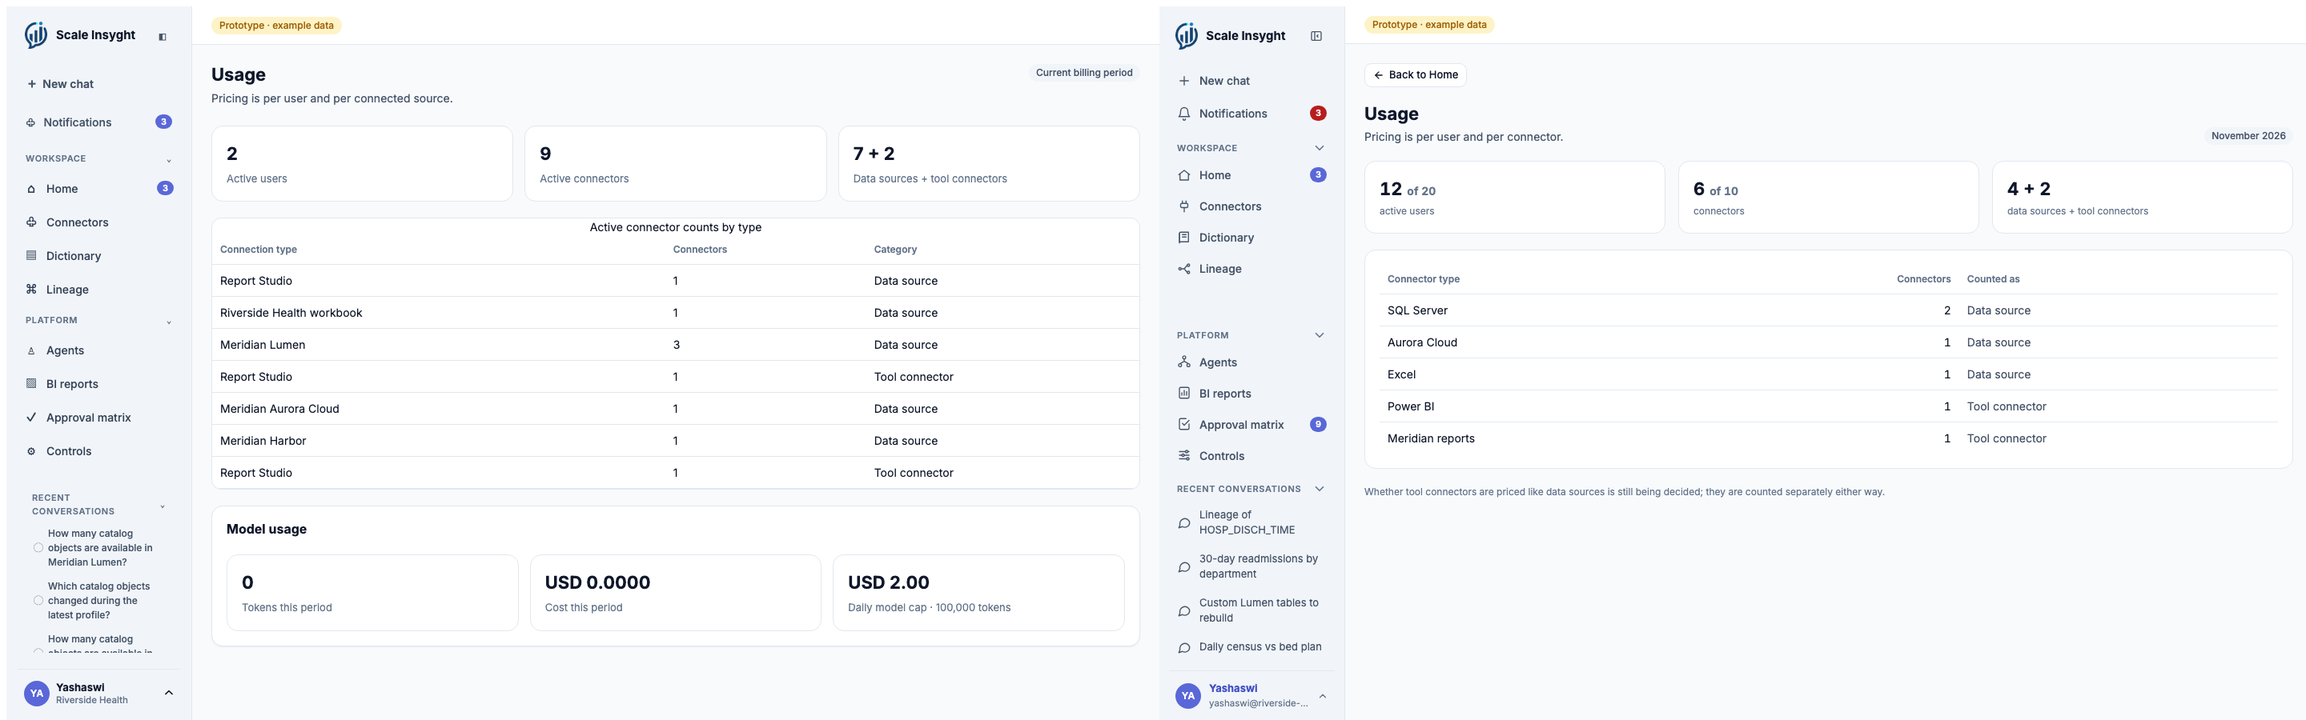
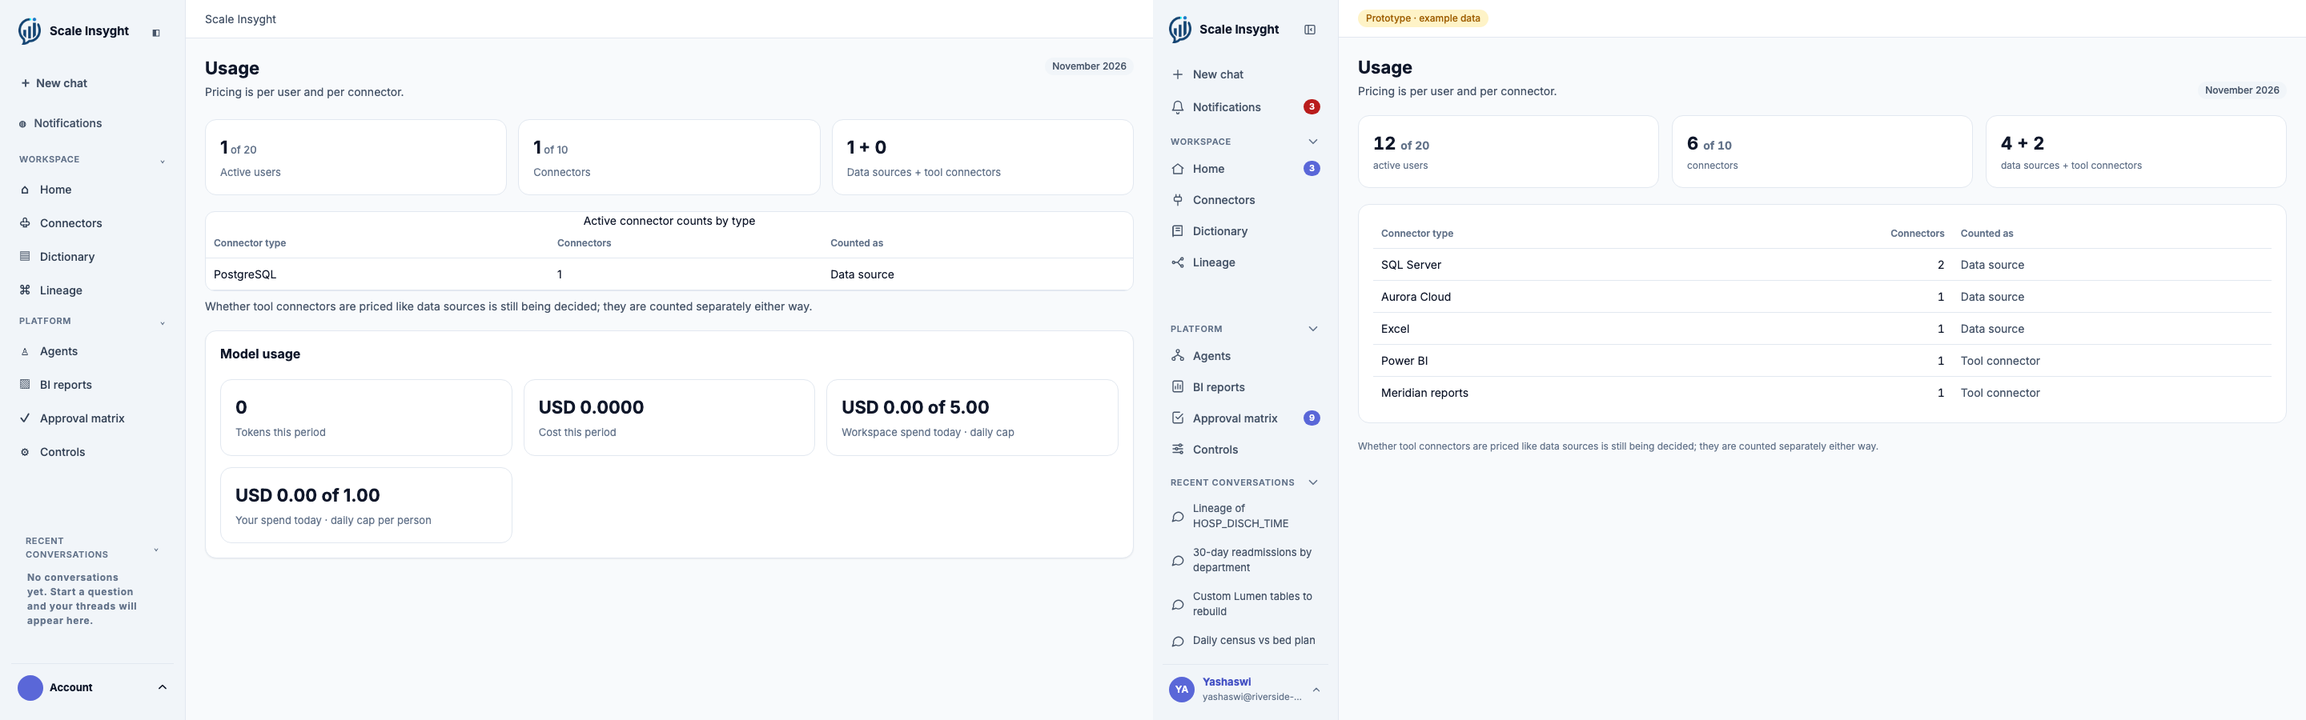
Usage: users and connectors against the plan's allowance, as in the prototype (decision 71)

diff --git a/apps/web/src/main.tsx b/apps/web/src/main.tsx
@@ -29,7 +29,7 @@ import { errorCopy } from './error-copy.js';
 import { groupNotifications, type NotificationGroup, type NotificationItem } from './notifications.js';
 import { profileProgress, profileStatus, type ProfileJob } from './profile-progress.js';
 
-type Usage = { active_users: number; active_connectors: { by_type: Record<string, number> }; model_usage:{input_tokens:number;output_tokens:number;cost_usd:number;daily_cost_cap_usd:number|null;daily_user_cost_cap_usd:number|null;today_cost_usd:number;today_user_cost_usd:number|null} };
+type Usage = { period?: { from: string; to: string }; active_users: number; active_connectors: { by_type: Record<string, number> }; allowance?: { users: number | null; connectors: number }; model_usage:{input_tokens:number;output_tokens:number;cost_usd:number;daily_cost_cap_usd:number|null;daily_user_cost_cap_usd:number|null;today_cost_usd:number;today_user_cost_usd:number|null} };
 type NavGroups = { workspace: boolean; platform: boolean; recent: boolean };
 type Connection = { connectionId: string; connectorType: string; displayName: string; status: string; agentId: string | null; lastJobState: string | null; lastJobAt?: string | null; lastJobFailure?: string | null; lastJobFailed?: number | null; lastJobLimited?: number | null; warehouseName?: string | null; dbtImport?: {importedAt:string;models:number;tests:number} | null; tableauImport?: {importedAt:string;datasources:number;worksheets:number} | null };
 type Notification = NotificationItem;
@@ -596,7 +596,7 @@ function App() {
   const sourceConnectorCount=totalActiveConnectors-toolConnectorCount;
   let page: React.ReactNode;
   if (path.startsWith('/invites')) page = <InvitesPage />;
-  else if (path.startsWith('/usage')) page = <section className="usage-page"><div className="page-heading"><div><h1>Usage</h1><p>Pricing is per user and per connected source.</p></div><Badge tone="muted">Current billing period</Badge></div><div className="usage-summary"><article><strong>{usage?.active_users??0}</strong><span>Active users</span></article><article><strong>{totalActiveConnectors}</strong><span>Active connectors</span></article><article><strong>{sourceConnectorCount} + {toolConnectorCount}</strong><span>Data sources + tool connectors</span></article></div><Table caption="Active connector counts by type" headers={['Connection type','Connectors','Category']} rows={usageTypes.map(([type,count])=>[connectorTypeLabel(type),count,type.includes('tableau')||type.includes('power_bi')?'Tool connector':'Data source'])}/><article className="usage-model"><h2>Model usage</h2><div className="usage-summary"><div><strong>{((usage?.model_usage.input_tokens??0)+(usage?.model_usage.output_tokens??0)).toLocaleString()}</strong><span>Tokens this period</span></div><div><strong>USD {(usage?.model_usage.cost_usd??0).toFixed(4)}</strong><span>Cost this period</span></div><div><strong>USD {(usage?.model_usage.today_cost_usd??0).toFixed(2)} of {(usage?.model_usage.daily_cost_cap_usd??0).toFixed(2)}</strong><span>Workspace spend today · daily cap</span></div><div><strong>USD {(usage?.model_usage.today_user_cost_usd??0).toFixed(2)} of {(usage?.model_usage.daily_user_cost_cap_usd??0).toFixed(2)}</strong><span>Your spend today · daily cap per person</span></div></div></article></section>;
+  else if (path.startsWith('/usage')) page = <section className="usage-page"><div className="page-heading"><div><h1>Usage</h1><p>Pricing is per user and per connector.</p></div><Badge tone="muted">{usage?.period?new Date(usage.period.from).toLocaleDateString('en-GB',{month:'long',year:'numeric',timeZone:'UTC'}):'Current billing period'}</Badge></div><div className="usage-summary"><article><strong>{(usage?.active_users??0).toLocaleString('en-US')}{usage?.allowance?.users!=null&&<span className="usage-of"> of {usage.allowance.users.toLocaleString('en-US')}</span>}</strong><span>{usage?.allowance?.users!=null?'Active users':'Active users · no user allowance in your plan'}</span></article><article><strong>{totalActiveConnectors.toLocaleString('en-US')}{usage?.allowance&&<span className="usage-of"> of {usage.allowance.connectors.toLocaleString('en-US')}</span>}</strong><span>Connectors</span></article><article><strong>{sourceConnectorCount} + {toolConnectorCount}</strong><span>Data sources + tool connectors</span></article></div><Table caption="Active connector counts by type" headers={['Connector type','Connectors','Counted as']} rows={usageTypes.map(([type,count])=>[connectorTypeLabel(type),count,type.includes('tableau')||type.includes('power_bi')?'Tool connector':'Data source'])}/><p className="faint">Whether tool connectors are priced like data sources is still being decided; they are counted separately either way.</p><article className="usage-model"><h2>Model usage</h2><div className="usage-summary"><div><strong>{((usage?.model_usage.input_tokens??0)+(usage?.model_usage.output_tokens??0)).toLocaleString()}</strong><span>Tokens this period</span></div><div><strong>USD {(usage?.model_usage.cost_usd??0).toFixed(4)}</strong><span>Cost this period</span></div><div><strong>USD {(usage?.model_usage.today_cost_usd??0).toFixed(2)} of {(usage?.model_usage.daily_cost_cap_usd??0).toFixed(2)}</strong><span>Workspace spend today · daily cap</span></div><div><strong>USD {(usage?.model_usage.today_user_cost_usd??0).toFixed(2)} of {(usage?.model_usage.daily_user_cost_cap_usd??0).toFixed(2)}</strong><span>Your spend today · daily cap per person</span></div></div></article></section>;
   else if (path.startsWith('/connectors')) page = <ConnectorsPage connections={connections} reload={reloadConnections} navigate={navigate} />;
   else if (path.startsWith('/profile/')) page = <ProfilePage connectionId={currentConnection ?? ''} navigate={navigate} />;
   else if (path.startsWith('/dictionary')) page = currentConnection ? <DictionaryPage connectionId={currentConnection} navigate={navigate} /> : <section><div className="page-heading"><div><h1>Dictionary</h1><p>Browse harvested tables, fields, and their descriptions.</p></div></div>{connections.filter(connection=>connection.status==='active').length?<div className="cards">{connections.filter(connection=>connection.status==='active').map(connection=><article key={connection.connectionId}><h2>{connectionDisplayName(connection)}</h2><p>{connectorTypeLabel(connection.connectorType)}</p><Button onClick={()=>navigate(`/dictionary?connection=${connection.connectionId}`)}>Open Dictionary</Button></article>)}</div>:<EmptyState title="No dictionaries yet" description="Add a connector to harvest its tables and columns." action={<Button variant="primary" onClick={()=>navigate('/connectors')}>Add a connector</Button>}/>}</section>;

diff --git a/tests/e2e/phase5.spec.ts b/tests/e2e/phase5.spec.ts
@@ -46,3 +46,21 @@ test('c5_governed_report_exports_evidence_and_has_an_owner_scoped_daily_schedule
  await page.reload();const pdfDownload=page.waitForEvent('download');await page.getByRole('button',{name:'Download PDF'}).click();expect((await pdfDownload).suggestedFilename()).toMatch(/\.pdf$/);
  await page.getByLabel('Daily schedule for Daily catalog report').fill('23:59');await page.getByRole('button',{name:'Schedule daily'}).click();await expect(page.getByRole('status')).toContainText('Daily schedule saved');await page.getByRole('button',{name:'Disable schedule'}).click();await expect(page.getByRole('status')).toContainText('Schedule disabled');
 });
+
+test('usage_shows_users_and_connectors_against_the_plan_allowance',async({page,browser})=>{
+ // CLAUDE.md 10.2 and decision 71: active users and connectors by type, against the plan's allowance.
+ const tenant=await createTenant(`phase5-e2e-usage-${crypto.randomUUID().slice(0,8)}`);
+ await withTenant(setup,tenant.tenantId,db=>db.query('UPDATE core.tenants SET user_allowance=20 WHERE tenant_id=$1',[tenant.tenantId]));
+ await signIn(page,tenant.ownerEmail);await page.goto('/usage');
+ const users=page.locator('.usage-summary article').filter({hasText:'Active users'});
+ await expect(users).toContainText('of 20');await expect(page.locator('.usage-summary article').filter({has:page.getByText('Connectors',{exact:true})})).toContainText('1 of 10');
+ await expect(page.getByText('Whether tool connectors are priced like data sources is still being decided; they are counted separately either way.')).toBeVisible();
+ await withTenant(setup,tenant.tenantId,db=>db.query('UPDATE core.tenants SET user_allowance=NULL WHERE tenant_id=$1',[tenant.tenantId]));
+ await page.reload();await expect(page.getByText('Active users · no user allowance in your plan')).toBeVisible();
+ await withTenant(setup,tenant.tenantId,db=>db.query('UPDATE core.tenants SET user_allowance=20 WHERE tenant_id=$1',[tenant.tenantId]));await page.reload();
+ const {mkdirSync}=await import('node:fs');const {resolve}=await import('node:path');const {pathToFileURL}=await import('node:url');
+ mkdirSync('docs/acceptance/phase5/prototype',{recursive:true});await page.setViewportSize({width:1440,height:900});await expect(users).toContainText('of 20');await page.screenshot({path:'docs/acceptance/phase5/usage.png'});
+ const prototype=await browser.newPage({viewport:{width:1440,height:900}});
+ try{await prototype.goto(pathToFileURL(resolve('docs/prototype/index.html')).href);await prototype.getByRole('button',{name:'Sign in',exact:true}).click();await prototype.evaluate('go("usage")');await expect(prototype.getByRole('heading',{name:'Usage'})).toBeVisible();await prototype.screenshot({path:'docs/acceptance/phase5/prototype/usage.png'});}
+ finally{await prototype.close();}
+});

diff --git a/packages/db/src/usage.ts b/packages/db/src/usage.ts
@@ -7,6 +7,8 @@ export interface UsageRecord {
   active_users: number;
   active_connectors: { by_type: Record<string, number> };
   computed_from_event_ids_range: { first: string | null; last: string | null };
+  /** The plan's allowances (decision 71): users is null when the plan sets none; connectors counts every active connection. */
+  allowance: { users: number | null; connectors: number };
   model_usage: { input_tokens:number;output_tokens:number;cost_usd:number;daily_cost_cap_usd:number|null;daily_user_cost_cap_usd:number|null;today_cost_usd:number;today_user_cost_usd:number|null };
 }
 
@@ -49,6 +51,7 @@ export async function getUsage(
        FROM core.activity_events WHERE tenant_id = $1 AND occurred_at < $2`,
       [tenantId, to],
     );
+    const plan = await client.query<{ user_allowance: number | null; connector_allowance: number }>('SELECT user_allowance, connector_allowance FROM core.tenants WHERE tenant_id = $1', [tenantId]);
     const modelUsage=await client.query<{input_tokens:string;output_tokens:string;cost_usd:string}>(
       `SELECT COALESCE(sum(input_tokens),0)::text AS input_tokens,COALESCE(sum(output_tokens),0)::text AS output_tokens,COALESCE(sum(cost_usd),0)::text AS cost_usd
        FROM core.model_usage WHERE tenant_id=$1 AND created_at >= $2 AND created_at < $3`,[tenantId,from,to]);
@@ -63,6 +66,7 @@ export async function getUsage(
       active_users: Number(users.rows[0]?.count ?? 0),
       active_connectors: { by_type: Object.fromEntries(connectors.rows.map((row) => [row.connector_type, Number(row.count)])) },
       computed_from_event_ids_range: { first: range.rows[0]?.first ?? null, last: range.rows[0]?.last ?? null },
+      allowance: { users: plan.rows[0]?.user_allowance ?? null, connectors: plan.rows[0]?.connector_allowance ?? 0 },
       model_usage:{input_tokens:Number(modelUsage.rows[0]?.input_tokens??0),output_tokens:Number(modelUsage.rows[0]?.output_tokens??0),cost_usd:Number(modelUsage.rows[0]?.cost_usd??0),daily_cost_cap_usd:budget?.tenantUsd??null,daily_user_cost_cap_usd:budget?.userUsd??null,today_cost_usd:Number(today.rows[0]?.tenant_cost??0),today_user_cost_usd:budget?.principalId?Number(today.rows[0]?.user_cost??0):null},
     };
   });

diff --git a/tests/contracts/c1_usage_recount_matches_activity_event_log.test.ts b/tests/contracts/c1_usage_recount_matches_activity_event_log.test.ts
@@ -51,4 +51,15 @@ describe('contract 1 usage accounting', () => {
     expect(usage.computed_from_event_ids_range.first).toBeTruthy();
     expect(usage.computed_from_event_ids_range.last).toBeTruthy();
   });
+
+  it('c1_usage_reports_the_plan_allowances_and_no_user_allowance_unless_set', async () => {
+    // Decision 71: users against the plan's user allowance (null when none is set), connectors against the connector allowance.
+    const tenantId = `usage-allowance-${crypto.randomUUID()}`;
+    await withTenant(migrate, tenantId, (db) => db.query('INSERT INTO core.tenants(tenant_id,name) VALUES($1,$1)', [tenantId]));
+    const from = new Date(Date.UTC(2026, 0, 1)); const to = new Date(Date.UTC(2100, 0, 1));
+    expect((await getUsage(app, tenantId, from, to)).allowance).toEqual({ users: null, connectors: 10 });
+    await withTenant(migrate, tenantId, (db) => db.query('UPDATE core.tenants SET user_allowance=20, connector_allowance=12 WHERE tenant_id=$1', [tenantId]));
+    expect((await getUsage(app, tenantId, from, to)).allowance).toEqual({ users: 20, connectors: 12 });
+    await expect(withTenant(migrate, tenantId, (db) => db.query('UPDATE core.tenants SET user_allowance=-1 WHERE tenant_id=$1', [tenantId]))).rejects.toThrow();
+  });
 });

diff --git a/scripts/compose-ui-screens.ts b/scripts/compose-ui-screens.ts
@@ -7,6 +7,7 @@ import { chromium } from '@playwright/test';
 // A prototype image wider than 1440 px (an existing pair) contributes its right half.
 type Pair = { out: string; app: string; prototype: string };
 const pairs: Pair[] = [
+  { out: 'usage', app: 'docs/acceptance/phase5/usage.png', prototype: 'docs/acceptance/phase5/prototype/usage.png' },
   { out: 'login', app: 'docs/acceptance/phase0/login.png', prototype: 'docs/acceptance/phase0/prototype/login.png' },
   { out: 'dictionary-landing', app: 'docs/acceptance/s9/landing.png', prototype: 'docs/acceptance/s9/prototype/landing.png' },
   { out: 'dictionary-table', app: 'docs/acceptance/s9/table.png', prototype: 'docs/acceptance/s9/prototype/table.png' },

diff --git a/packages/db/migrations/052_tenant_user_allowance.ts b/packages/db/migrations/052_tenant_user_allowance.ts
@@ -1,0 +1,11 @@
+import type { MigrationBuilder } from 'node-pg-migrate';
+
+// Decision 71: the plan's user allowance, shown on Usage beside active users. Null means the plan sets none.
+// Display only in Release 1; nothing is refused when it is reached.
+export function up(pgm: MigrationBuilder): void {
+  pgm.sql('ALTER TABLE core.tenants ADD COLUMN user_allowance integer CHECK (user_allowance IS NULL OR user_allowance >= 0)');
+}
+
+export function down(pgm: MigrationBuilder): void {
+  pgm.sql('ALTER TABLE core.tenants DROP COLUMN user_allowance');
+}

diff --git a/apps/web/src/shell.css b/apps/web/src/shell.css
@@ -455,3 +455,5 @@ h3 { font-size: 14px; line-height: 1.3; }
 .login .ui-button--secondary { background:var(--surface); color:var(--ink); border:1px solid var(--line); font-weight:500; }
 .login .ui-button--secondary:hover:not(:disabled) { border-color:var(--primary); color:var(--primary-ink); }
 .login label small { display:block; margin-top:4px; font-weight:400; }
+/* Usage: "12 of 20" against the plan's allowance (prototype V.usage). */
+.usage-of { font-size:14px; font-weight:500; color:var(--faint); }

diff --git a/docs/decisions.md b/docs/decisions.md
@@ -75,3 +75,4 @@ Status values: **decided**, **open** (with the phase it is needed by), or **assu
 | 67 | Dictionary descriptions drafted by the model gateway, with the code template as fallback | decided, Yashaswi 27 Nov 2026 (Dictionary item 2) | Found on test_emr: the code-drafted descriptions list tables instead of saying what an object does. Drafts are written by the model gateway's `cheap` alias (`MODEL_CHEAP` in config, never a name in code) as one or two plain sentences per object: what it is or does, in sentence case, no jargon. Input is metadata only (contract 7): the object's name and kind, its column names, declared keys, parameters and returned columns, the Reads, Writes and Calls parsed from its SQL, and its scrubbed SQL (literals already placeholders, cut to a bounded length). Never data values, never statistics of any column (so none of tagged ones), never imported vendor text. Objects with an imported or dbt description get no model draft (those still win), and approved or edited descriptions are never redrafted. Drafting runs in the background after a profile, never when a page loads: objects are batched (tables many per call, routines a few per call, both bounded by size), every call goes through the gateway so the tenant's and the run's daily budget apply, and a draft is stored as "drafted" with the hash of its input, redrafted only when that input changes. When the budget is off or used up, the gateway is not configured, or a call fails or returns an invalid draft, the object keeps the current code template. The page is unchanged: "Drafted", Approve, Edit and Approve all work the same, and approving records the exact text shown. Cost estimate for test_emr's 391 objects with `gpt-6-luna` at USD 0.10 per million input and 0.50 per million output tokens: about 205,000 input tokens (column names 100,465 characters, scrubbed SQL 643,279 characters, prompts) and 18,000 output tokens, about USD 0.03; the measured cost is recorded on the PR. Alternative considered: keep the code template only (lists tables, the reason for this change); draft on page load (cost and latency on every view) |
 | 68 | The offline Dictionary export embeds the app's fonts under the SIL Open Font License | decided, Yashaswi 27 Nov 2026 (Dictionary item 5) | The interactive HTML export must look like the in-app Dictionary offline, and the app loads Inter and JetBrains Mono from Google Fonts, which an offline file cannot. The export embeds the latin subsets of Inter (400, 500, 600, 700) and JetBrains Mono (400, 500) as base64 `@font-face` rules from the `@fontsource/inter` and `@fontsource/jetbrains-mono` packages, both SIL Open Font License 1.1, with each font's copyright line and licence statement in a comment next to its rules. The file's Content-Security-Policy allows fonts only from data: URLs, so nothing is fetched. Follow-up, its own PR: the app serves the same `@fontsource` files instead of loading Google Fonts, so it works in private networks and calls no third party on page load. Alternative considered: system fonts offline (no new dependency; the export would not match the app) |
 | 69 | Automated tests replay recorded model responses and never call the live model | decided (standing rule: tests must not spend money on the model) | The model gateway's default fetcher honours `MODEL_REPLAY`. `replay` answers from `tests/fixtures/model-replay/<hash>.json`, keyed by a SHA-256 of the canonical request with run-specific values (UUIDs, 64-hex fingerprints, timestamps) replaced by numbered placeholders and mapped back into the replayed response; bare dates are kept so the scan below still sees any date of birth. A request with no recording fails with `model_replay_missing`, its hash goes to stderr and `.model-replay-misses.log`, and the testbed Playwright teardown fails the run listing every missing hash; the live model is never called as a fallback. Replayed calls are stored at zero cost. `record-missing` (alias `record`) replays what is recorded and calls the live model only for requests with no recording, so a prompt or schema change pays only for the affected requests, and a request sent twice in one recording is answered once (two specs asking the identical first question got different live answers, and the overwritten one broke the follow-up's prior turns on replay); a fresh recording deletes the folder first. These modes are the only ways tests reach the live model, and both are refused in CI. Each recording's cost is stated before it is made and counts toward the USD 1 cap. Run-to-run differences in requests are fixed at their cause, never matched loosely: the first one found was the API loading a run's sources in no fixed order. Replay is the default for `pnpm test:testbed` (API, worker and vitest), the e2e suite (which never reaches the gateway) and `pnpm eval:planner`; the product (unset) is unchanged. Contract 7: `c7_model_replay_recordings_hold_no_identifier_or_row_values` checks every recording against every value of every tagged column in the testbed's PostgreSQL, SQL Server and Excel data and against the identifier shapes the gateway redacts; integer surrogate keys cannot be told from ordinary numbers by value and stay covered by the gateway boundary and its contract tests. Alternatives considered: a stub model returning fixed text (would not exercise the real planner prompts and responses); recording without normalization (every run's new UUIDs would miss); fuzzy matching of near-identical requests (would silently replay an answer to a different prompt). Merge rule from now: CI on head, the PR's Playwright tests and one replay testbed pass; live passes only in the one final run. | Yashaswi, 28 Nov 2026 |
+| 71 | The plan's user allowance is stored and shown on Usage | decided (Usage matched to the prototype, requested 28 Nov 2026) | `core.tenants.user_allowance` (nullable, at least 0; migration 052) holds the plan's number of users. Usage shows active users "of N" when it is set and says the plan sets none when it is null, beside connectors against the existing `connector_allowance` (which counts every active connection, tool connectors included; decision 19 still open, so tool connectors are listed separately). Display only in Release 1: reaching the user allowance refuses nothing, unlike the connector allowance, which activation already enforces. Set by the operator (SQL or the tenant script); there is no screen to change it. Test: `c1_usage_reports_the_plan_allowances_and_no_user_allowance_unless_set`; E2E `usage_shows_users_and_connectors_against_the_plan_allowance`. Alternatives considered: a fixed default such as 20 (would invent a plan figure); enforcing it at sign-in (a billing policy not decided). | Yashaswi, 28 Nov 2026 |

diff --git a/docs/ui/ui-report.md b/docs/ui/ui-report.md
@@ -52,3 +52,4 @@ The application renders live seeded API data and real interactions; the prototyp
 
 Run `DEMO_MODE=true pnpm screens` with the app and API services available. The script runs the idempotent demo seed, signs in as the local demo user, opens each app route and prototype route in Playwright Chromium at 1440×900, checks visible app copy for fixture names, internal roles, and IDs, and writes the 17 side-by-side PNGs into `docs/ui/screens/`. The three Tableau pairs (S8) were composed from the S8 walkthrough's 1440×900 captures and the prototype's Connectors, add-connector and Reports routes.
 | [Login](screens/login.png) | Captured by `tests/e2e/phase0.spec.ts` (`phase0_login_without_a_tenant_link_uses_the_workspace_field`); composed by `scripts/compose-ui-screens.ts`. Same card, wording, Sign in and outlined single sign-on button. Intentional difference: a Workspace field above the email, filled from the link (`?tenant=`) or the workspace last signed in to on this browser, so a plain `/login` works (the prototype signs anyone in and needs no workspace). Known difference: the Powered by pill shows only the ScaleHealthTech mark, because the repository has the 71×96 mark only; the official logo file with the wordmark is needed (CLAUDE.md 10.2). |
+| [Usage](screens/usage.png) | Captured by `tests/e2e/phase5.spec.ts` (`usage_shows_users_and_connectors_against_the_plan_allowance`); composed by `scripts/compose-ui-screens.ts`. Same three figures (users and connectors "of" the plan's allowance, data sources + tool connectors), the month, the table by connector type with "Counted as", and the note that tool-connector pricing is still being decided. Intentional differences: a Model usage section (tokens, cost and the daily caps of decision 43); the user allowance is shown only when the plan sets one (decision 71). |
